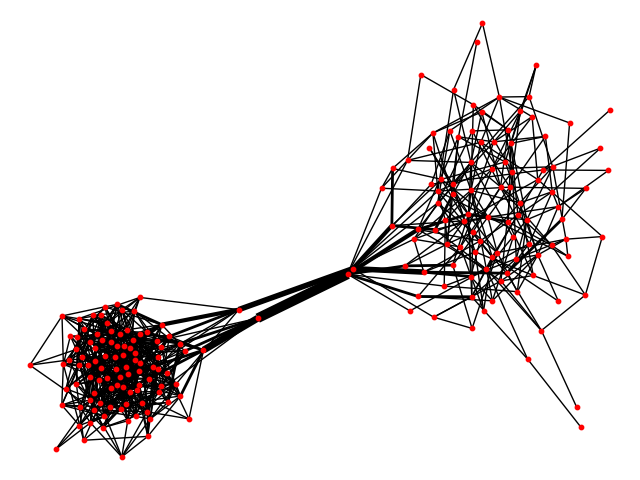
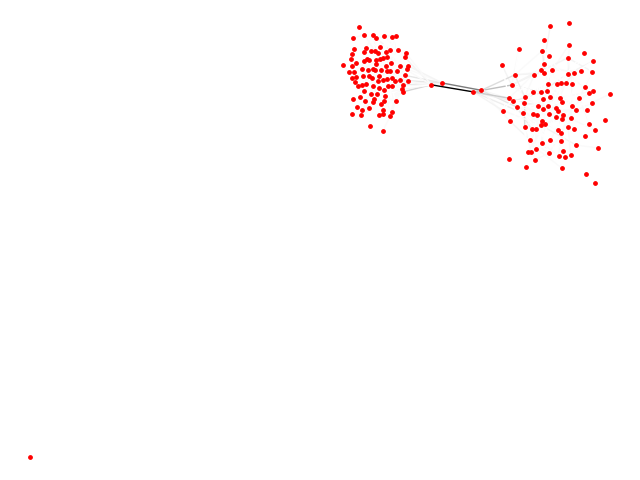
edge colors greyscale

diff --git a/netgraph.py b/netgraph.py
@@ -2,10 +2,21 @@ import networkx as nx
 import random
 import matplotlib.pyplot as plt
 
+def get_edge_color(g):
+    edges = g.edges()
+    weights = [g.edges[e]['weight'] for e in edges]
+    maxw = max(weights)
+    return [w/maxw for w in weights]
+    
 def draw_graph(g):
     weights = [g[u][v]['weight'] for u, v in g.edges()]
     pos = nx.spring_layout(g)
-    nx.draw(g, node_size=10, width=weights, pos=pos)
+    cmap = plt.cm.get_cmap('Greys')
+    nx.draw(g, 
+            node_size=6, 
+            edge_color = get_edge_color(g), 
+            edge_cmap = cmap,
+            pos=pos)
     plt.savefig("graph.png")
 
 def create_graph():
@@ -23,17 +34,17 @@ def create_graph():
     return g
 
 def random_path(g):
-    n1 = random.sample(range(0, 100), 1)[0]
-    n2 = random.sample(range(100, 200), 1)[0]
+    n1 = random.randint(0, 199)
+    n2 = random.randint(0, 199)
     try:
         path = nx.shortest_path(g, n1, n2)
+        for i in range(0, len(path)-1):
+            g.edges[path[i], path[i+1]]['weight'] += 1
     except:
         pass
-    for i in range(0, len(path)-1):
-        g.edges[path[i], path[i+1]]['weight'] += 1
     return g
 
 g = create_graph()
-for i in range(1, 10):
+for i in range(1, 100):
     g = random_path(g)
 draw_graph(g)
